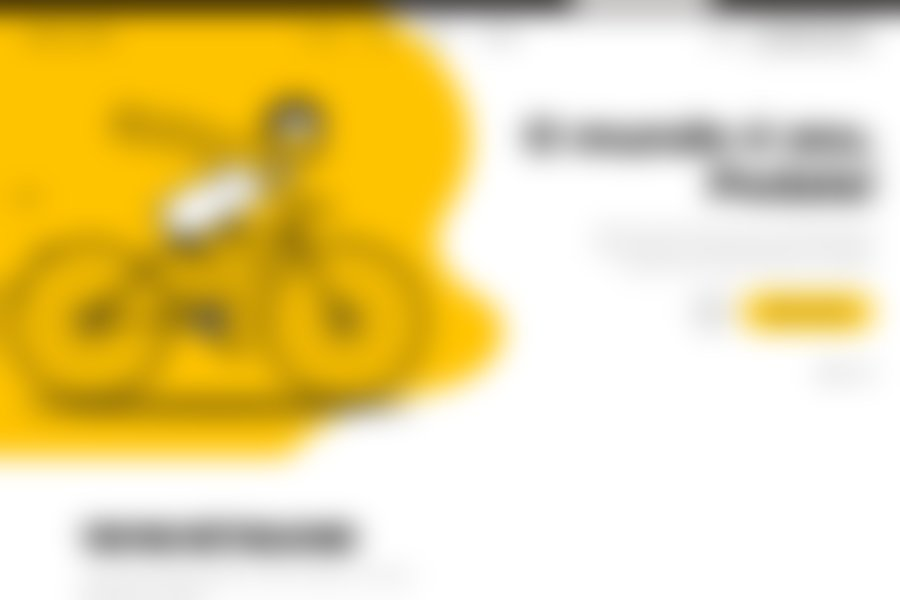
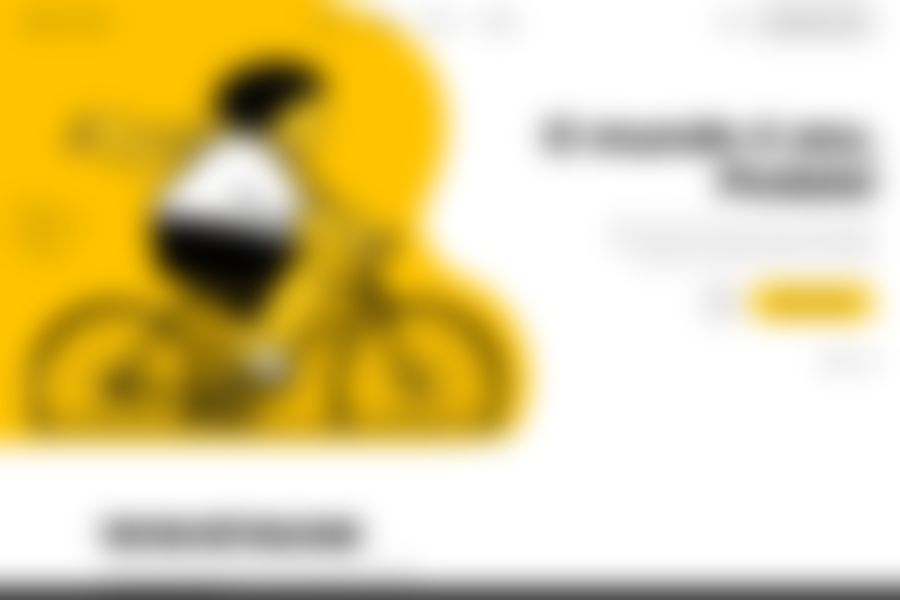
Roda Livre: ilustração do ciclista como no pin (#190)
* Roda Livre: ilustracao do ciclista gordinho como no pin, capa regerada

* Roda Livre: mancha cobre a roda da frente inteira

* Roda Livre: nova ilustração do ciclista, sem fundo, sobre a mancha

* Roda Livre: rodas inteiras no mobile, mancha mais alta, riscos de velocidade

diff --git a/src/components/models/BikeFold.tsx b/src/components/models/BikeFold.tsx
@@ -36,48 +36,7 @@ const Limb = ({ d, w = 22 }: { d: string; w?: number }) => (
   </g>
 );
 const Rider = () => (
-  <svg viewBox="0 0 520 430" className="rider" role="img" aria-label="Ilustração de um ciclista de lenço amarelo ao vento">
-    <ellipse cx="260" cy="402" rx="230" ry="7" fill={INK} opacity=".85" />
-    <Wheel cx={112} cy={304} r={92} />
-    <Wheel cx={408} cy={304} r={92} />
-    <g stroke={INK} strokeWidth="7" strokeLinecap="round" strokeLinejoin="round" fill="none">
-      {/* quadro: tubo do selim, tubo superior, tubo diagonal, bainhas */}
-      <path d="M250 304L222 204M222 204L352 200M352 200L250 304M222 204L112 304M250 304L112 304" />
-      {/* garfo e mesa */}
-      <path d="M352 196L366 236L408 304M352 196L350 178L384 172" />
-      {/* canote e selim */}
-      <path d="M222 204L216 184" />
-      <path d="M192 182h50" strokeWidth="11" />
-      {/* pedivela */}
-      <circle cx="250" cy="304" r="15" fill="#fff" />
-      <path d="M250 304L280 332M250 304L220 276" />
-      <path d="M268 336h26M208 272h26" strokeWidth="10" />
-    </g>
-    {/* perna de tras */}
-    <Limb d="M226 186L238 246L224 280" />
-    {/* bermuda */}
-    <path d="M206 168c-10 20-6 44 20 52 26 8 46-6 52-26l-28-30z" fill={INK} stroke={INK} strokeWidth="4" strokeLinejoin="round" />
-    {/* perna da frente */}
-    <Limb d="M236 190L296 246L282 330" />
-    {/* tronco */}
-    <g fill="none" strokeLinecap="round">
-      <path d="M222 180L318 132" stroke={INK} strokeWidth="58" />
-      <path d="M222 180L318 132" stroke="#fff" strokeWidth="50" />
-      <path d="M252 148l40 10" stroke={INK} strokeWidth="3" />
-    </g>
-    {/* braco */}
-    <Limb d="M316 138L346 164L382 174" w={14} />
-    {/* cabeca */}
-    <circle cx="352" cy="92" r="27" fill={Y} stroke={INK} strokeWidth="6" />
-    <path d="M326 86c-2-26 22-40 40-30 12 6 18 20 12 32z" fill="#fff" stroke={INK} strokeWidth="5" strokeLinejoin="round" />
-    <g fill={INK}>{[[330, 62], [346, 54], [362, 56], [374, 66], [324, 74]].map(([x, y], i) => (<circle key={i} cx={x} cy={y} r="10" />))}</g>
-    <circle cx="364" cy="98" r="3" fill={INK} />
-    <path d="M372 108l8 3" stroke={INK} strokeWidth="4" strokeLinecap="round" fill="none" />
-    {/* lenço */}
-    <path d="M330 108C300 88 272 100 242 82C212 64 190 78 150 58L142 84C190 98 212 88 242 108C272 128 300 118 326 134z" fill={Y} stroke={INK} strokeWidth="5" strokeLinejoin="round" />
-    <path d="M150 58L142 84" stroke={INK} strokeWidth="5" />
-    <path d="M30 160h18M50 224h26M14 270h22" stroke={INK} strokeWidth="5" strokeLinecap="round" />
-  </svg>
+  <img className="rider" src="/roda-ciclista.webp" alt="Ilustração de um ciclista de lenço amarelo ao vento" />
 );
 const BikeLine = ({ k }: { k: number }) => (
   <svg viewBox="0 0 300 190" className="bk" aria-hidden>
@@ -122,7 +81,8 @@ export function BikeFold({ client }: { client?: { name?: string; whatsapp?: stri
         .bk0 .mmenu a{padding:14px 12px;font-weight:800;cursor:pointer}
         .bk0 .hero{position:relative;min-height:620px;display:grid;grid-template-columns:1.05fr 1fr;align-items:center;margin-top:-74px;padding:74px 40px 40px 0}
         .bk0 .blob{position:absolute;left:0;top:0;width:62%;height:100%;z-index:0}
-        .bk0 .rider{position:relative;z-index:1;width:100%;max-width:720px;height:auto;margin-left:-10px}
+        .bk0 .rider{position:relative;z-index:1;width:106%;max-width:920px;height:auto;margin-left:46px;margin-top:20px}
+        .bk0 .spd{position:absolute;z-index:1;left:1%;top:44%;width:150px;height:90px;pointer-events:none}
         .bk0 .ht{position:relative;z-index:2;padding-left:10px}
         .bk0 h1{font-family:'Montserrat',system-ui,sans-serif;font-weight:800;font-size:clamp(38px,5vw,66px);line-height:1.08;letter-spacing:-.02em;margin:0 0 26px;text-align:right}
         .bk0 .ht p{font-size:14.5px;line-height:1.75;color:${MUT};margin:0 0 30px;text-align:right;max-width:440px;margin-left:auto}
@@ -164,7 +124,7 @@ export function BikeFold({ client }: { client?: { name?: string; whatsapp?: stri
         .bk0 .foot{background:${INK};color:#d4d0c4;display:grid;grid-template-columns:1.2fr 1fr 1fr 1fr;gap:26px;padding:38px 40px;font-size:14px;line-height:1.7}
         .bk0 .foot b{color:#fff}
         .bk0 .wa{position:fixed;right:18px;bottom:18px;z-index:40;width:58px;height:58px;border-radius:50%;background:#25d366;display:grid;place-items:center;box-shadow:0 8px 24px rgba(0,0,0,.3)}
-        @media(max-width:960px){.bk0 .hero{grid-template-columns:1fr;padding:74px 20px 30px;min-height:0}.bk0 .blob{width:100%;height:62%}.bk0 .rider{margin:20px auto 0;display:block;max-width:480px}.bk0 h1,.bk0 .ht p{text-align:left}.bk0 .ht p{margin-left:0}.bk0 .acts,.bk0 .dots{justify-content:flex-start}.bk0 .sv,.bk0 .bg,.bk0 .of{grid-template-columns:1fr}.bk0 .of{gap:30px}}
+        @media(max-width:960px){.bk0 .hero{grid-template-columns:1fr;padding:74px 20px 30px;min-height:0}.bk0 .blob{width:100%;height:76%}.bk0 .spd{display:none}.bk0 .rider{margin:20px auto 24px;display:block;width:100%;max-width:480px}.bk0 h1,.bk0 .ht p{text-align:left}.bk0 .ht p{margin-left:0}.bk0 .acts,.bk0 .dots{justify-content:flex-start}.bk0 .sv,.bk0 .bg,.bk0 .of{grid-template-columns:1fr}.bk0 .of{gap:30px}}
         @media(max-width:760px){
           .bk0 .links,.bk0 .ico .btn,.bk0 .ico span{display:none}.bk0 .burger{display:block}.bk0 .nav{padding:0 12px 0 20px}
           .bk0 .wrap{padding:0 20px}.bk0 .sec{padding-top:70px}.bk0 .rd{margin-top:70px;padding:60px 0}
@@ -183,7 +143,8 @@ export function BikeFold({ client }: { client?: { name?: string; whatsapp?: stri
       </div>
 
       <div className="hero">
-        <svg className="blob" viewBox="0 0 700 640" preserveAspectRatio="none" aria-hidden><path d="M0 0H470c120 70 150 190 90 290-24 40-10 90 40 120 50 30 40 100-40 130-60 20-140 20-200 100H0z" fill={Y} /></svg>
+        <svg className="blob" viewBox="0 0 700 640" preserveAspectRatio="none" aria-hidden><path d="M0 0H400c150 30 190 150 140 270-24 40-10 90 40 120 80 30 110 150 60 220-20 8-80 10-230 10H0z" fill={Y} /></svg>
+        <svg className="spd" viewBox="0 0 150 90" aria-hidden><g stroke={INK} strokeWidth="3" strokeLinecap="round" fill="none"><path d="M6 12h70M30 36h92M2 60h58M36 82h60" /></g></svg>
         <Rider />
         <div className="ht">
           <h1>O mundo é seu.<br />Pedala!</h1>
